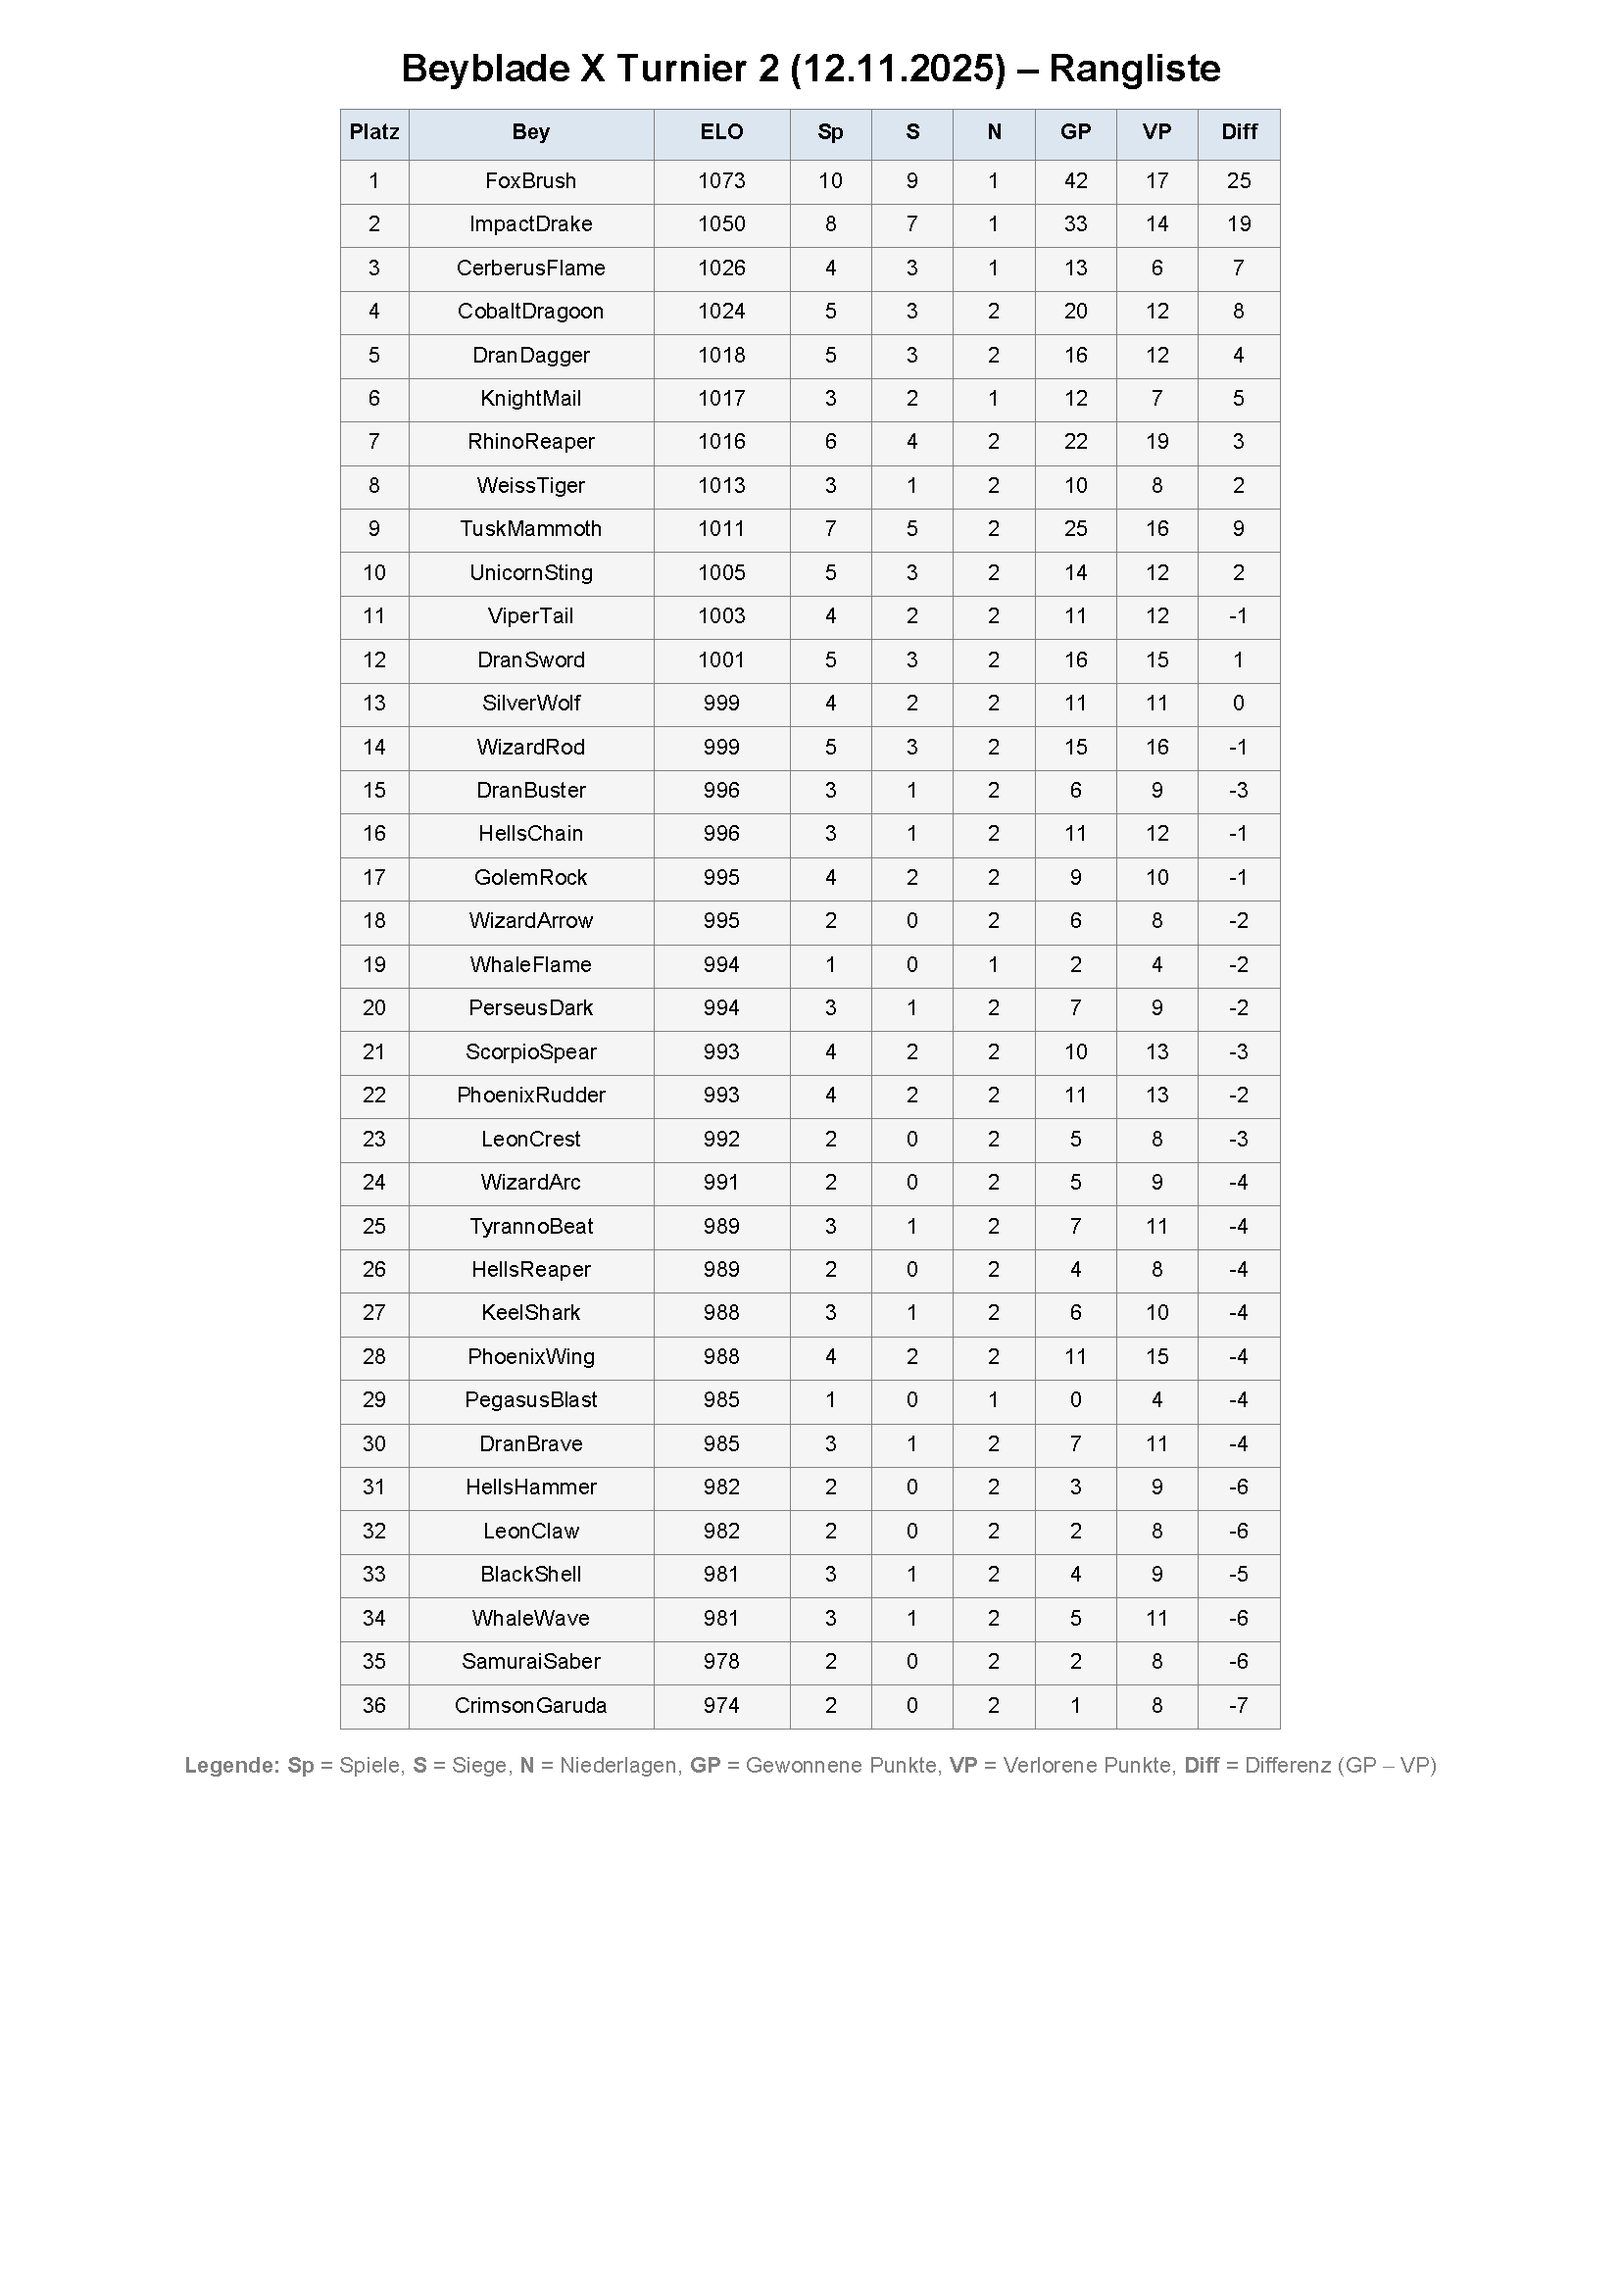
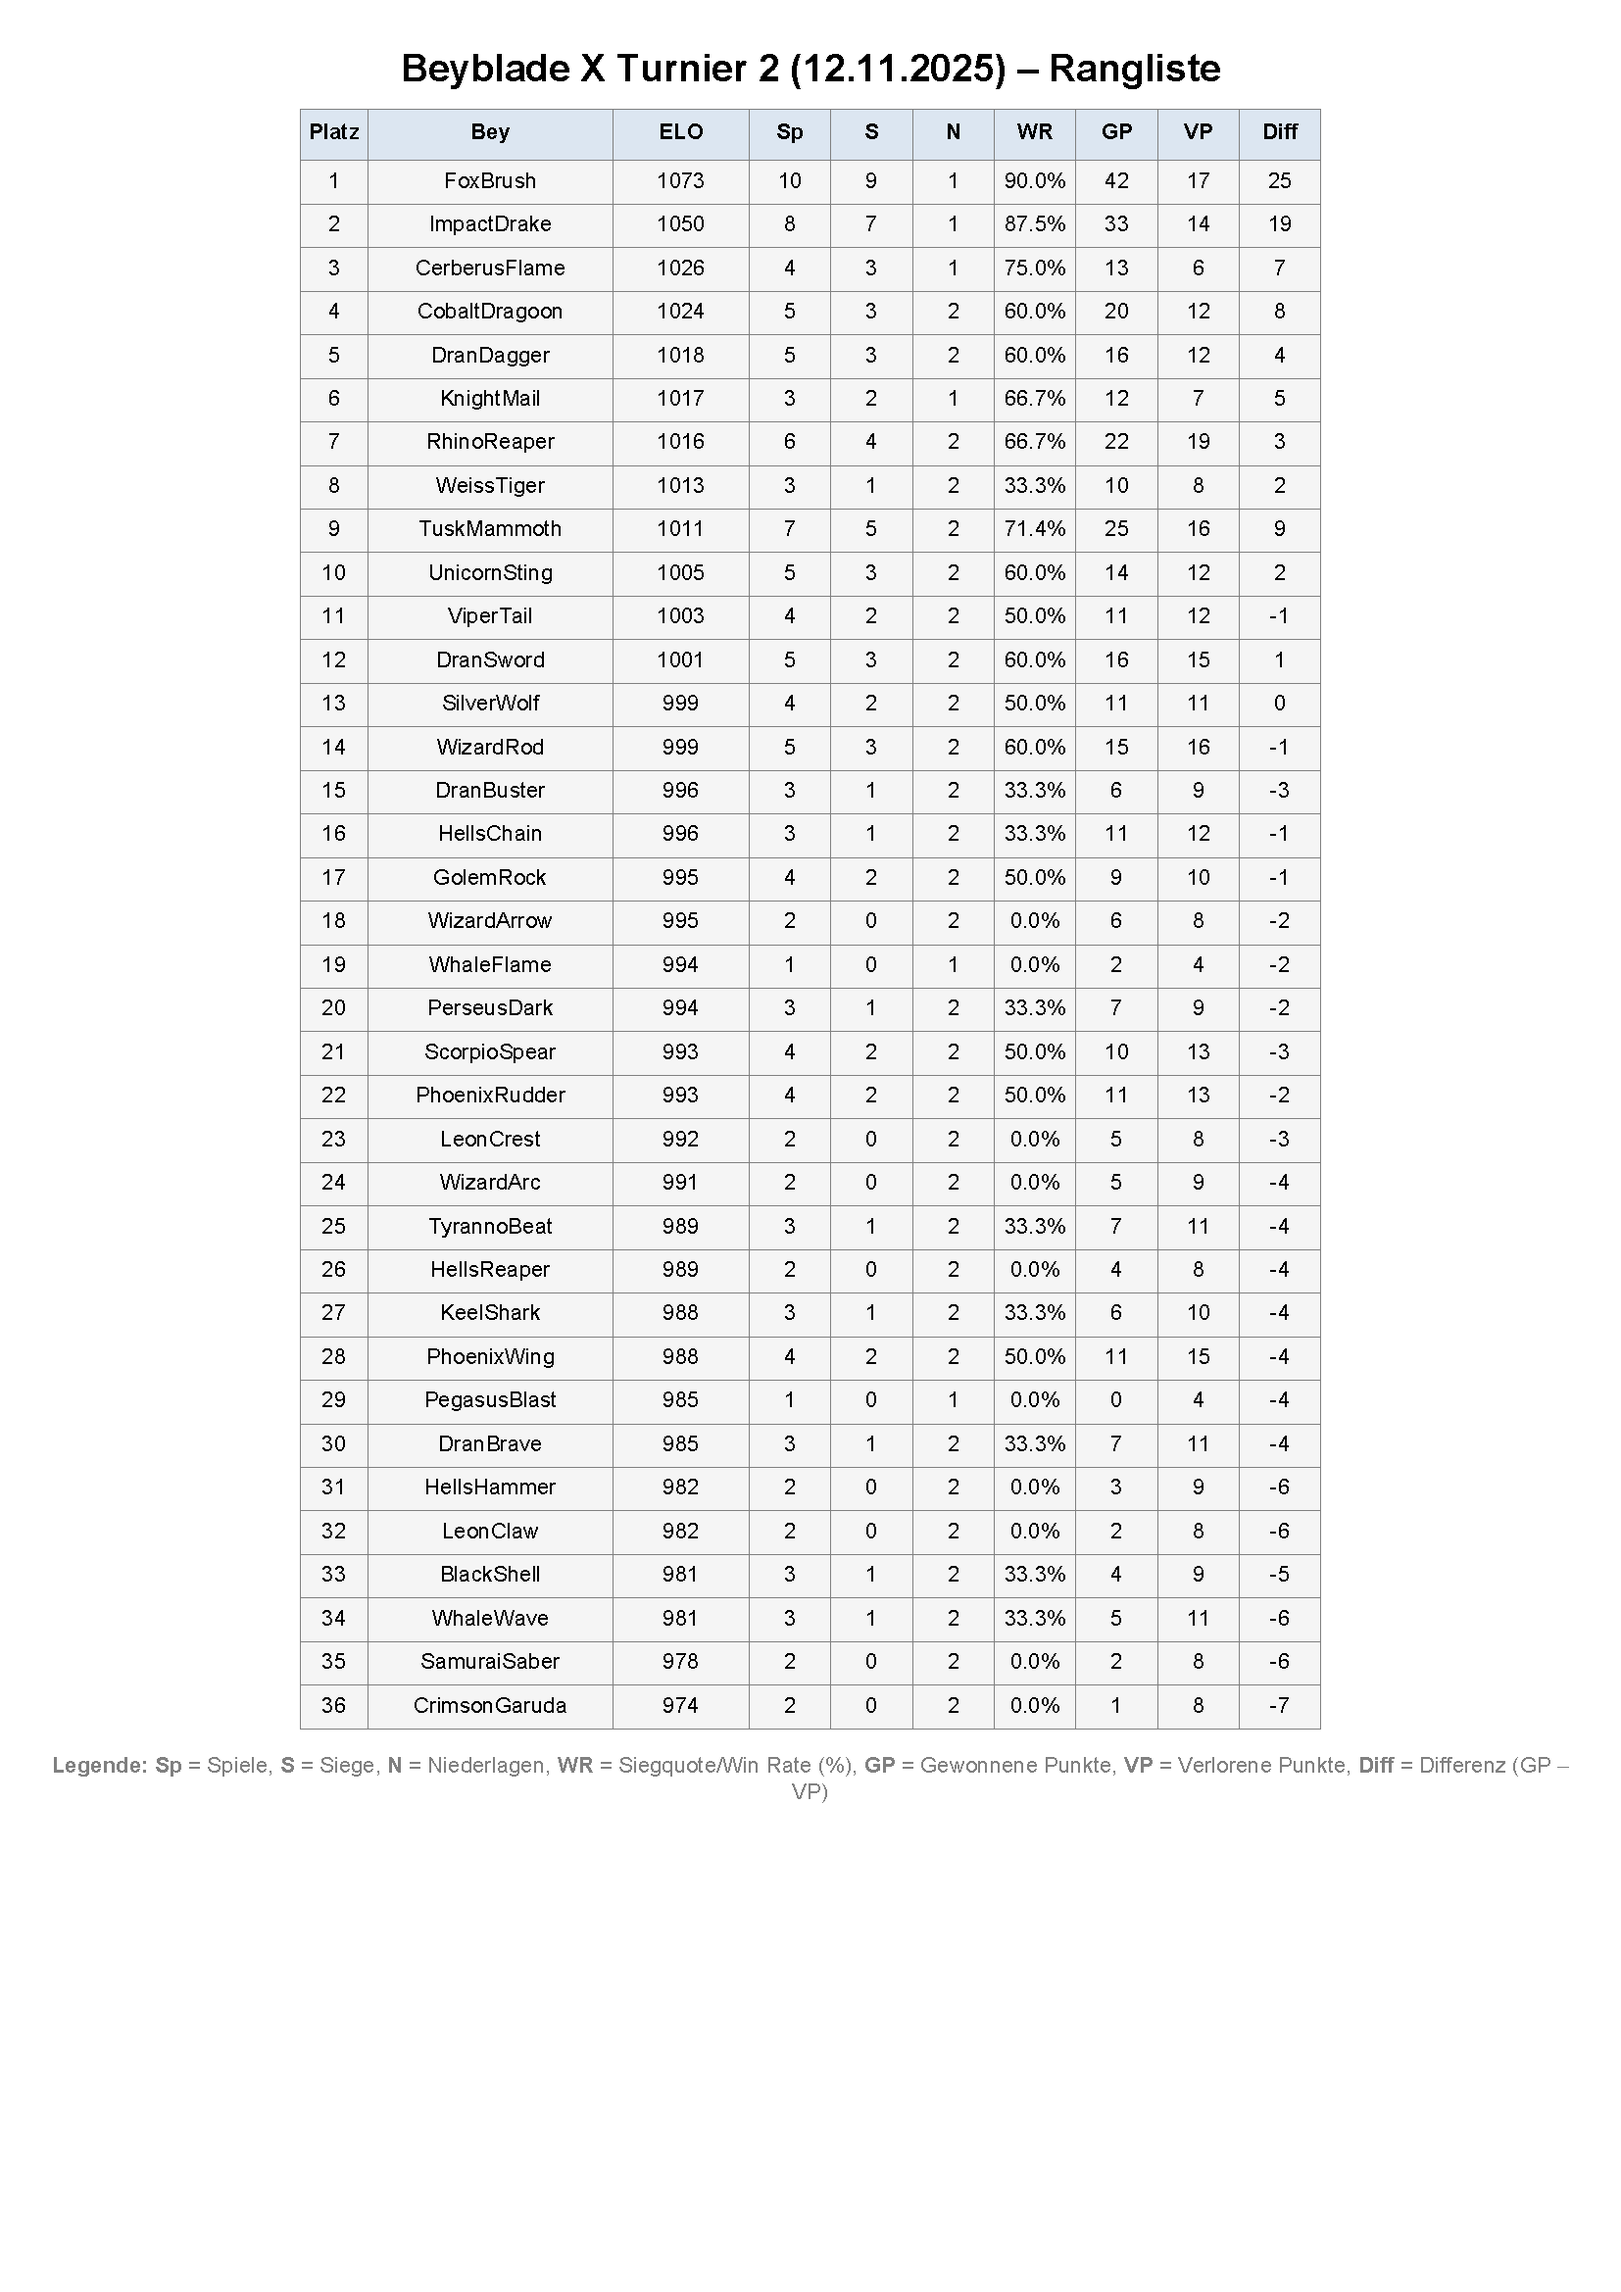
fix: leaderboard wr display

diff --git a/scripts/export_leaderboard_pdf.py b/scripts/export_leaderboard_pdf.py
@@ -46,10 +46,10 @@ with open(input_file, newline="", encoding="utf-8") as f:
     data = list(reader)
 
 # === Tabellenkopf anpassen ===
-data[0] = ["Platz","Bey","ELO","Sp","S","N","GP","VP","Diff"]
+data[0] = ["Platz","Bey","ELO","Sp","S","N","WR","GP","VP","Diff"]
 
 # === Spaltenbreiten ===
-col_widths = [25, 90, 50, 30, 30, 30, 30, 30, 30]
+col_widths = [25, 90, 50, 30, 30, 30, 30, 30, 30, 30]
 
 # === Tabelle ===
 table = Table(data, colWidths=col_widths, hAlign="CENTER")
@@ -76,6 +76,7 @@ legend_text = (
     "<b>Sp</b> = Spiele, "
     "<b>S</b> = Siege, "
     "<b>N</b> = Niederlagen, "
+    "<b>WR</b> = Siegquote/Win Rate (%), "
     "<b>GP</b> = Gewonnene Punkte, "
     "<b>VP</b> = Verlorene Punkte, "
     "<b>Diff</b> = Differenz (GP − VP)"
